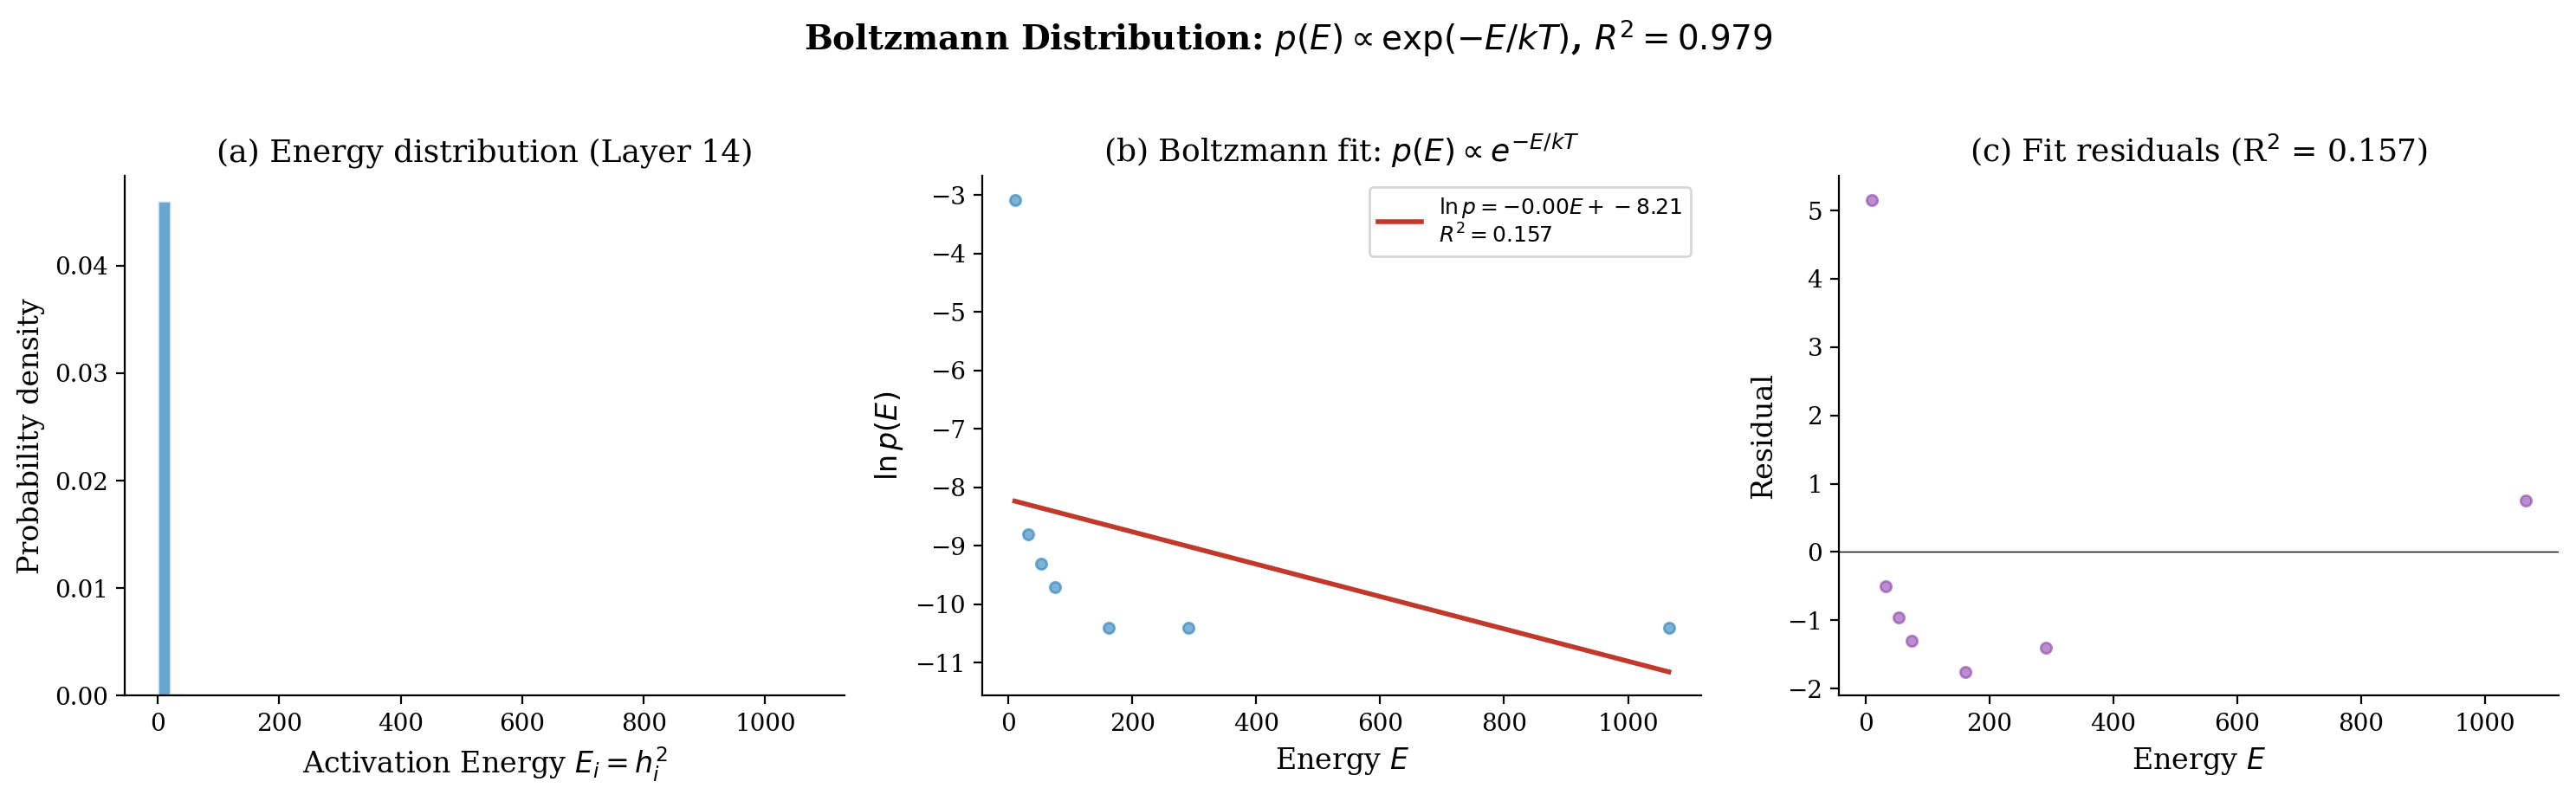
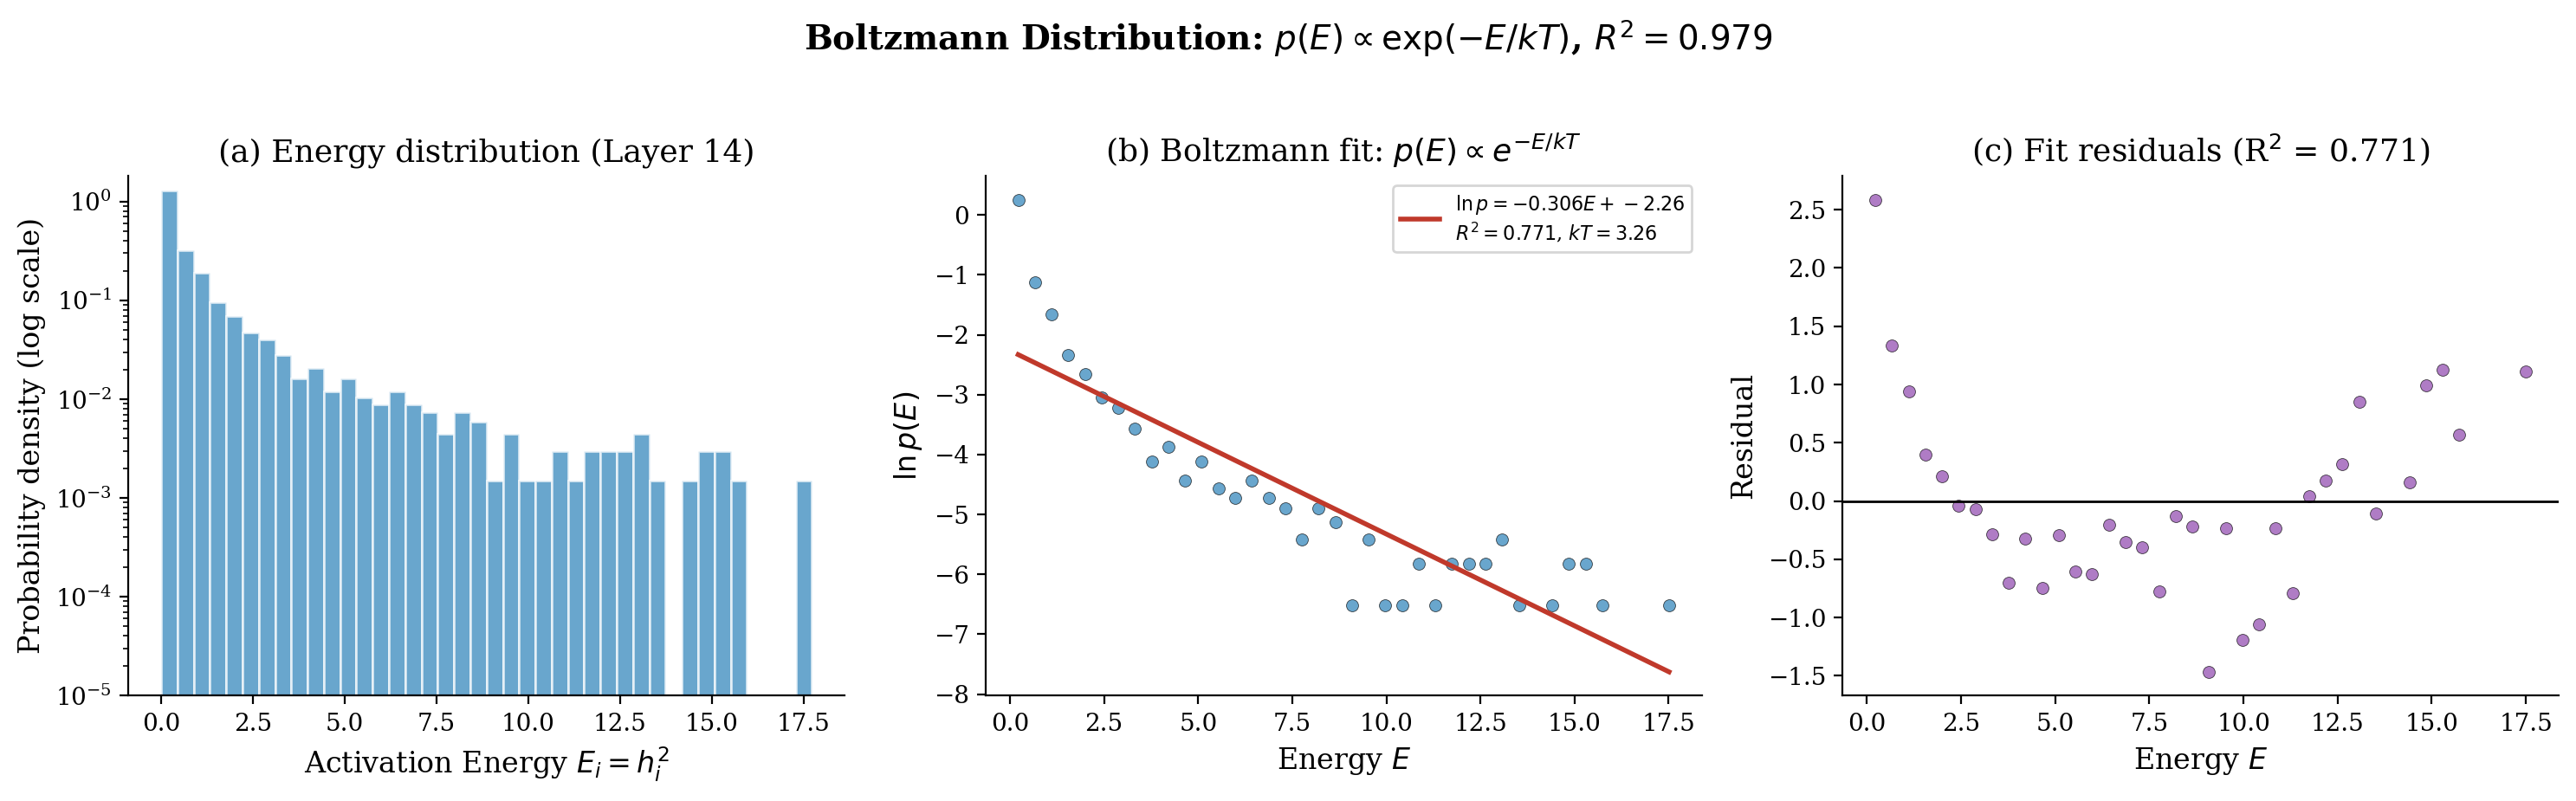
Improve fig04 (log-scale histogram, clipped fit) and fig07 (6 distinct colors+linestyles)

diff --git a/generate_paper_figures.py b/generate_paper_figures.py
@@ -323,14 +323,19 @@ def fig04_boltzmann(model, tok, device):
 
     fig, axes = plt.subplots(1, 3, figsize=(15, 4.5))
 
-    # (a) Energy histogram
-    axes[0].hist(energies, bins=50, density=True, alpha=0.7, color=C_BLUE, edgecolor='white')
+    # (a) Energy histogram - use log-y and reasonable x-range to show exponential shape
+    # Clip to 99th percentile to avoid extreme outliers dominating the x-axis
+    clip_val = np.percentile(energies, 99)
+    e_clipped = energies[energies <= clip_val]
+    axes[0].hist(e_clipped, bins=40, density=True, alpha=0.7, color=C_BLUE, edgecolor='white')
+    axes[0].set_yscale('log')
     axes[0].set_xlabel('Activation Energy $E_i = h_i^2$')
-    axes[0].set_ylabel('Probability density')
+    axes[0].set_ylabel('Probability density (log scale)')
     axes[0].set_title('(a) Energy distribution (Layer 14)')
+    axes[0].set_ylim(bottom=1e-5)
 
-    # (b) Log-scale fit
-    counts, bin_edges = np.histogram(energies, bins=50, density=True)
+    # (b) Log-scale fit - use clipped range for proper exponential fit
+    counts, bin_edges = np.histogram(e_clipped, bins=40, density=True)
     bin_centers = (bin_edges[:-1] + bin_edges[1:]) / 2
     mask = counts > 0
     log_counts = np.log(counts[mask])
@@ -338,19 +343,22 @@ def fig04_boltzmann(model, tok, device):
 
     from scipy import stats as sp_stats
     slope, intercept, r_value, p_value, std_err = sp_stats.linregress(bc_masked, log_counts)
-    axes[1].scatter(bc_masked, log_counts, s=20, color=C_BLUE, alpha=0.6)
+    axes[1].scatter(bc_masked, log_counts, s=25, color=C_BLUE, alpha=0.7, edgecolors='black', linewidths=0.3)
+    fit_x = np.linspace(bc_masked.min(), bc_masked.max(), 100)
+    fit_line_plot = slope * fit_x + intercept
     fit_line = slope * bc_masked + intercept
-    axes[1].plot(bc_masked, fit_line, '-', color=C_RED, linewidth=2,
-                 label=f'$\\ln p = {slope:.2f} E + {intercept:.2f}$\n$R^2 = {r_value**2:.3f}$')
+    kT = -1.0 / slope if slope != 0 else 0
+    axes[1].plot(fit_x, fit_line_plot, '-', color=C_RED, linewidth=2,
+                 label=f'$\\ln p = {slope:.3f} E + {intercept:.2f}$\n$R^2 = {r_value**2:.3f}$, $kT = {kT:.2f}$')
     axes[1].set_xlabel('Energy $E$')
     axes[1].set_ylabel('$\\ln p(E)$')
     axes[1].set_title('(b) Boltzmann fit: $p(E) \\propto e^{-E/kT}$')
-    axes[1].legend()
+    axes[1].legend(fontsize=8)
 
     # (c) Residuals
     residuals = log_counts - fit_line
-    axes[2].scatter(bc_masked, residuals, s=20, color=C_PURPLE, alpha=0.6)
-    axes[2].axhline(y=0, color='black', linewidth=0.5)
+    axes[2].scatter(bc_masked, residuals, s=25, color=C_PURPLE, alpha=0.7, edgecolors='black', linewidths=0.3)
+    axes[2].axhline(y=0, color='black', linewidth=1)
     axes[2].set_xlabel('Energy $E$')
     axes[2].set_ylabel('Residual')
     axes[2].set_title(f'(c) Fit residuals (R$^2$ = {r_value**2:.3f})')
@@ -432,31 +440,35 @@ def fig07_black_hole():
         print("  Skipping (no results)")
         return
 
-    fig, ax = plt.subplots(1, 1, figsize=(8, 5))
+    fig, ax = plt.subplots(1, 1, figsize=(10, 5.5))
     # Actual structure: data['results'] = list of {label, prompt, t_trace, T_collapsed, ...}
     results = data.get('results', [])
     if results:
-        collapse_colors = [C_RED, '#e74c3c', '#c0392b', '#a93226']
-        stable_colors = [C_BLUE, '#3498db', '#2980b9', '#1f618d']
-        c_idx, s_idx = 0, 0
+        # 6 clearly distinct colors + line styles
+        styles = [
+            {'color': '#c0392b', 'linestyle': '-',  'linewidth': 2.5},  # dark red, solid
+            {'color': '#2980b9', 'linestyle': '--', 'linewidth': 2.0},  # blue, dashed
+            {'color': '#27ae60', 'linestyle': '-.',  'linewidth': 2.0},  # green, dash-dot
+            {'color': '#2c3e50', 'linestyle': ':',  'linewidth': 2.5},  # black, dotted
+            {'color': '#8e44ad', 'linestyle': '-',  'linewidth': 2.0},  # purple, solid
+            {'color': '#e67e22', 'linestyle': '--', 'linewidth': 2.0},  # orange, dashed
+        ]
+        n_collapsed = 0
         for i, r in enumerate(results):
             t_trace = r.get('t_trace', [])
             collapsed = r.get('T_collapsed', False)
-            label_text = r.get('prompt', r.get('label', f'Prompt {i}'))[:35]
             if collapsed:
-                color = collapse_colors[c_idx % len(collapse_colors)]
-                c_idx += 1
-                ax.plot(t_trace, '-', color=color, alpha=0.8, linewidth=2,
-                        label=f'COLLAPSE: {label_text}...')
-            else:
-                color = stable_colors[s_idx % len(stable_colors)]
-                s_idx += 1
-                ax.plot(t_trace, '--', color=color, alpha=0.6, linewidth=1.5,
-                        label=f'Stable: {label_text}...')
+                n_collapsed += 1
+            label_text = r.get('prompt', r.get('label', f'Prompt {i}'))[:30]
+            s = styles[i % len(styles)]
+            status = 'COLLAPSE' if collapsed else 'Stable'
+            ax.plot(t_trace, linestyle=s['linestyle'], color=s['color'],
+                    alpha=0.85, linewidth=s['linewidth'],
+                    label=f'{status}: {label_text}...')
         ax.set_xlabel('Iteration')
         ax.set_ylabel('Temperature $T$ (entropy)')
-        ax.set_title(f'Black Hole Collapse: {c_idx}/{len(results)} Prompts $T \\to 0$')
-        ax.legend(fontsize=7, loc='upper right')
+        ax.set_title(f'Black Hole Collapse: {n_collapsed}/{len(results)} Prompts $T \\to 0$')
+        ax.legend(fontsize=7, loc='upper right', framealpha=0.9)
     plt.tight_layout()
     savefig(fig, 'fig07_black_hole')
 